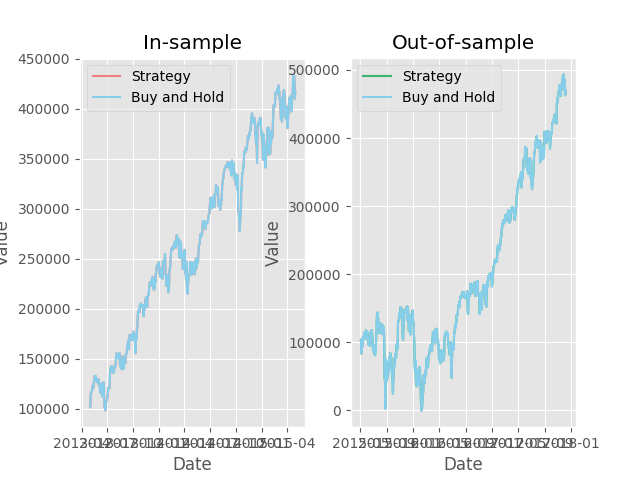
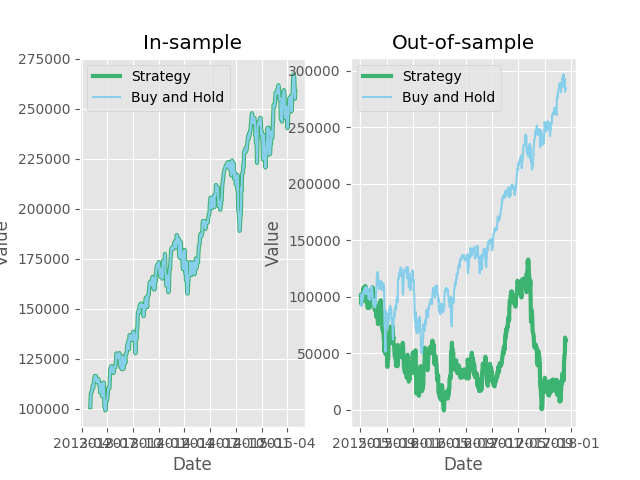
updates

diff --git a/strategy_learner.py b/strategy_learner.py
@@ -1,4 +1,5 @@
 from datetime import timedelta
+from random import seed
 
 from numpy import asarray
 from pandas import DataFrame, date_range, cut
@@ -10,6 +11,7 @@ import qlearner as ql
 from util import get_data
 
 style.use('ggplot')
+seed(0)
 
 
 class Trade(object):
@@ -122,7 +124,7 @@ class Trade(object):
         self.shares = 100
         close = self.current[1][self.symbol]
         if self.position == 1:
-            return -100
+            return -50
         elif self.position == 0:
             self.position = 1
             if self.verbose:
@@ -136,7 +138,7 @@ class Trade(object):
         else:
             self.position = 1
             print("Error: position unknown")
-            return -100
+            return -50
 
     def sell(self):
         self.shares = -100
@@ -152,11 +154,11 @@ class Trade(object):
                 print("Short {} contract at $%0.2f".format(self.shares, close))
             return -10 * self.current[1]['dr']
         elif self.position == 2:
-            return -100
+            return -50
         else:
             self.position = 2
             print("Error: position unknown")
-            return -100
+            return -50
 
     def hold(self):
         if self.position == 1:
@@ -234,7 +236,7 @@ class StrategyLearner(object):
                 break
 
             if i > 1000:
-                print('Error: cannot converge')
+                print("Error: cannot converge")
                 break
 
     # this method should use the existing policy and test it against new data
@@ -278,14 +280,14 @@ class StrategyLearner(object):
 
         df = df[df["Trades"] != 2].copy()
         df["Order"] = df["Trades"].apply(lambda x: order(x))
-        df["Shares"] = 100
-        df["Shares"].ix[0] = 50
+        df["Shares"] = 200
+        df["Shares"].ix[0] = 100
         df = df[["Order", "Shares"]].copy()
 
         # Create benchmark dataframe
         start = df.index[0]
         end = df.index[-1]
-        benchmark = DataFrame({"Order": ["BUY", "SELL"], "Shares": [200, 200]}, index=[start, end])
+        benchmark = DataFrame({"Order": ["BUY", "SELL"], "Shares": [100, 100]}, index=[start, end])
         return df, benchmark
 
 

diff --git a/main.py b/main.py
@@ -1,4 +1,5 @@
 from datetime import datetime
+from random import seed
 
 from pandas import date_range, DataFrame
 import matplotlib.pyplot as plt
@@ -9,7 +10,7 @@ import strategy_learner as sl
 from util import get_data
 
 style.use('ggplot')
-
+seed(0)
 
 def run_algo(sym, investment, start_date, end_date, bench_sym):
     # instantiate the strategy learner
@@ -94,7 +95,7 @@ if __name__ == "__main__":
     symbol = "NASDAQ1001440"
     bench_sym = "S&P5001440"
     verbose = False
-    investment = 100000
+    investment = 100000 # 100k = 100 contracts
     fee = 0
     slippage = 0.0025  # in %
     start_date_insample = datetime(2013, 5, 1)

diff --git a/qlearner.py b/qlearner.py
@@ -2,6 +2,8 @@ from numpy import ndarray, argmax, max
 from numpy.random import uniform, randint, multinomial
 import random as rand
 
+rand.seed(0)
+
 
 class QLearner(object):
     def __init__(self, num_states=100, num_actions=3, alpha=0.2, gamma=0.9, rar=0.5, radr=0.99, dyna=0, verbose=False):

diff --git a/README.md b/README.md
@@ -9,3 +9,5 @@ Uses [Machine_Learning_for_Trading](https://github.com/jason-r-becker/Machine_Le
 Edit values in main.py and:
 
     $ python main.py
+
+P.S. Neither original, nor this code is reproducible, for educational purposes only.
